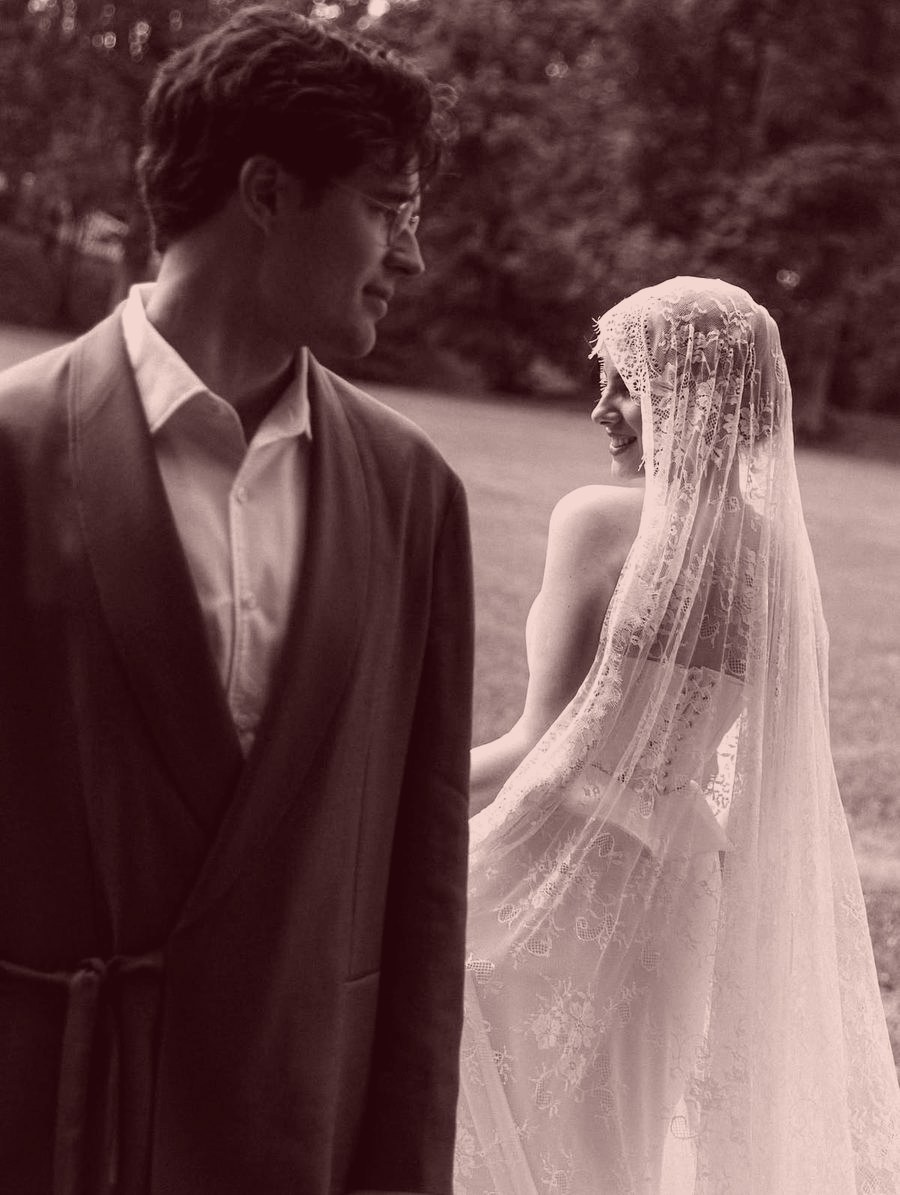
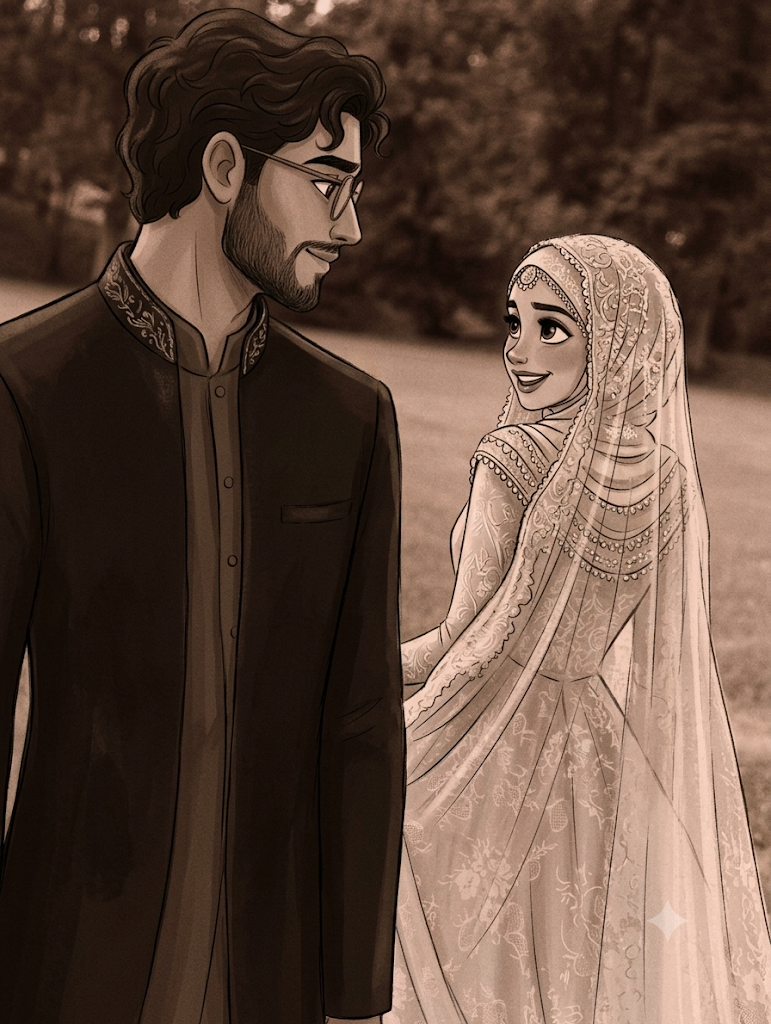
Add complete invitation metadata, smart iOS/Android calendar handler, and cross-platform paths

diff --git a/index.html b/index.html
@@ -3,21 +3,50 @@
 <head>
   <meta charset="utf-8">
   <meta name="viewport" content="width=device-width, initial-scale=1, viewport-fit=cover">
-  <title>Hazra &amp; Thameem, 04.12.2026</title>
-  <meta name="description" content="You are cordially invited to celebrate the wedding of Hazra & Thameem on Friday, 4 December 2026 at Keyath Garden Mariyad.">
-  <meta property="og:title" content="Hazra &amp; Thameem are getting married">
-  <meta property="og:description" content="04.12.2026, Keyath Garden Mariyad. Open the invitation.">
+  <title>Hazra &amp; Thameem — 04.12.2026</title>
+  
+  <!-- Primary Meta Tags -->
+  <meta name="title" content="Hazra &amp; Thameem are getting married — 04.12.2026">
+  <meta name="description" content="By the grace of Allah and with the blessings of our families, you are cordially invited to celebrate the Nikkah ceremony and wedding reception of Hazra & Thameem on Friday, 4 December 2026 at K hills resort, Farook.">
+  <meta name="author" content="Hazra &amp; Thameem">
+  <meta name="theme-color" content="#1f0408">
+  <meta name="color-scheme" content="dark">
+
+  <!-- Open Graph / Facebook / WhatsApp / iMessage -->
+  <meta property="og:site_name" content="Hazra &amp; Thameem Wedding Invitation">
   <meta property="og:type" content="website">
-  <meta property="og:image" content="/media/og.jpg">
+  <meta property="og:title" content="Hazra &amp; Thameem are getting married">
+  <meta property="og:description" content="Friday, 4 December 2026 · K hills resort, Farook. Open to reveal the wedding invitation.">
+  <meta property="og:image" content="./media/og.jpg">
+  <meta property="og:image:secure_url" content="./media/og.jpg">
+  <meta property="og:image:type" content="image/jpeg">
   <meta property="og:image:width" content="1200">
   <meta property="og:image:height" content="630">
+  <meta property="og:image:alt" content="Hazra &amp; Thameem Wedding Invitation">
+  <meta property="og:locale" content="en_IN">
+
+  <!-- Twitter / X -->
   <meta name="twitter:card" content="summary_large_image">
-  <meta name="theme-color" content="#1f0408">
-  <link rel="preload" as="image" href="/media/film-first.jpg">
-  <link rel="icon" type="image/png" href="/media/seal-red.png">
+  <meta name="twitter:title" content="Hazra &amp; Thameem — Wedding Invitation">
+  <meta name="twitter:description" content="Friday, 4 December 2026 · K hills resort, Farook. Open to reveal the wedding invitation.">
+  <meta name="twitter:image" content="./media/og.jpg">
+  <meta name="twitter:image:alt" content="Hazra &amp; Thameem Wedding Invitation">
+
+  <!-- Mobile & PWA Configuration -->
+  <meta name="mobile-web-app-capable" content="yes">
+  <meta name="apple-mobile-web-app-capable" content="yes">
+  <meta name="apple-mobile-web-app-status-bar-style" content="black-translucent">
+  <meta name="apple-mobile-web-app-title" content="Hazra &amp; Thameem">
+  <meta name="application-name" content="Hazra &amp; Thameem">
+  <meta name="format-detection" content="telephone=no">
+
+  <!-- Favicon and App Icons -->
+  <link rel="icon" type="image/png" href="./media/seal-red.png">
+  <link rel="apple-touch-icon" href="./media/seal-red.png">
+  <link rel="preload" as="image" href="./media/film-first.jpg">
 </head>
 <body class="bg-ox text-ivory font-familjen antialiased overflow-x-hidden m-0">
   <div id="root"></div>
-  <script type="module" src="/src/main.jsx"></script>
+  <script type="module" src="./src/main.jsx"></script>
 </body>
 </html>

diff --git a/src/utils/calendar.js b/src/utils/calendar.js
@@ -1,20 +1,43 @@
 import { invitationData } from '../data/invitationData';
 
 export function handleAddToCalendar() {
-  const isApple = /iPhone|iPad|iPod|Macintosh/.test(navigator.userAgent);
-  const formatDate = (d) => d.replace(/[-:]/g, '').slice(0, 15);
-  
-  if (isApple && invitationData.event.icsFile) {
-    const link = document.createElement('a');
-    link.href = invitationData.event.icsFile;
-    link.download = 'wedding.ics';
-    link.click();
+  const ua = navigator.userAgent || '';
+  const isIOS =
+    /iPhone|iPad|iPod/.test(ua) ||
+    (navigator.platform === 'MacIntel' && navigator.maxTouchPoints > 1);
+  const isAndroid = /Android/i.test(ua);
+
+  const { event } = invitationData;
+  const title = event.title || 'Hazra & Thameem Wedding';
+  const location = event.venueAddress || event.venueName || 'K hills resort, Farook, Kerala';
+  const details = `By the grace of Allah and with the blessings of our families, you are cordially invited to celebrate the Nikkah ceremony and wedding reception of Hazra & Thameem on Friday, 4 December 2026.\n\nVenue: ${location}\nTime: ${event.timeDisplay || '5:00 PM'}`;
+
+  // 04 Dec 2026, 17:00 IST to 22:30 IST (11:30 UTC to 17:00 UTC)
+  const startUTC = '20261204T113000Z';
+  const endUTC = '20261204T170000Z';
+
+  // Google Calendar URL (Native app on Android, standard on Android/Chrome)
+  const gCalUrl = `https://calendar.google.com/calendar/render?action=TEMPLATE&text=${encodeURIComponent(
+    title
+  )}&dates=${startUTC}/${endUTC}&location=${encodeURIComponent(
+    location
+  )}&details=${encodeURIComponent(details)}`;
+
+  // ICS File absolute URL (Native Apple Calendar on iOS / macOS)
+  const icsPath = event.icsFile || './wedding.ics';
+  const absoluteIcsUrl = new URL(icsPath, window.location.href).href;
+
+  if (isIOS) {
+    // iOS Safari natively prompts "Add to Calendar" when navigating to a .ics file
+    window.location.href = absoluteIcsUrl;
+  } else if (isAndroid) {
+    // Android automatically launches the Google Calendar app via intent
+    window.open(gCalUrl, '_blank', 'noopener,noreferrer');
   } else {
-    const gUrl = `https://calendar.google.com/calendar/render?action=TEMPLATE&text=${encodeURIComponent(
-      invitationData.event.title
-    )}&dates=${formatDate(invitationData.event.startDate)}/${formatDate(invitationData.event.endDate)}&location=${encodeURIComponent(
-      invitationData.event.venueAddress
-    )}&details=${encodeURIComponent('Our wedding invitation: ' + window.location.href.split(/[?#]/)[0])}`;
-    window.open(gUrl, '_blank', 'noopener,noreferrer');
+    // Desktop (Mac/PC): opens Google Calendar; also triggers .ics download for Apple/Outlook users
+    const win = window.open(gCalUrl, '_blank', 'noopener,noreferrer');
+    if (!win) {
+      window.location.href = absoluteIcsUrl;
+    }
   }
 }

diff --git a/src/data/invitationData.js b/src/data/invitationData.js
@@ -29,14 +29,14 @@ export const invitationData = {
   // EVENT & CALENDAR DETAILS
   // ----------------------------------------------------------------------------
   event: {
-    title: "Nikkah ceremony",
+    title: "Hazra & Thameem — Nikkah Ceremony & Wedding Reception",
     startDate: "2026-12-04T17:00:00", // ISO string: 04 Dec 2026, 5:00 PM
     endDate: "2026-12-04T22:30:00",
     timeDisplay: "5 pm",
     venueName: "K hills resort",
-    venueAddress: "Farook",
+    venueAddress: "K hills resort, Farook, Kerala",
     mapEmbedUrl: "https://maps.google.com/maps?q=Klay+Hills+Resorts+%26+Spa,+Farook&t=&z=15&ie=UTF8&iwloc=&output=embed",
-    icsFile: "/wedding.ics",
+    icsFile: "./wedding.ics",
   },
 
   // ----------------------------------------------------------------------------
@@ -275,16 +275,16 @@ export const invitationData = {
   // MEDIA ASSET PATHS
   // ----------------------------------------------------------------------------
   media: {
-    audioTrack: "/media/arabic-wedding-nasheed.mp3",
+    audioTrack: "./media/arabic-wedding-nasheed.mp3",
     audioTitle: "Barakallahu Lakuma - Islamic Wedding Music",
-    introVideo: "/media/film.mp4",
-    posterFirst: "/media/film-first.jpg",
-    posterLast: "/media/film-last.jpg",
-    velvetBg: "/media/velvet-bg.jpg",
-    waxSealImg: "/media/seal-red.png",
-    tablePhoto: "/media/intimate-wedding-in-Kerala-with-cost-and-package.webp",
-    couplePhoto: "/media/couple-bw-red.jpg",
-    petalImg: "/media/petal-red.png",
+    introVideo: "./media/film.mp4",
+    posterFirst: "./media/film-first.jpg",
+    posterLast: "./media/film-last.jpg",
+    velvetBg: "./media/velvet-bg.jpg",
+    waxSealImg: "./media/seal-red.png",
+    tablePhoto: "./media/intimate-wedding-in-Kerala-with-cost-and-package.webp",
+    couplePhoto: "./media/couple-bw-red.jpg",
+    petalImg: "./media/petal-red.png",
   },
 
   // ----------------------------------------------------------------------------
